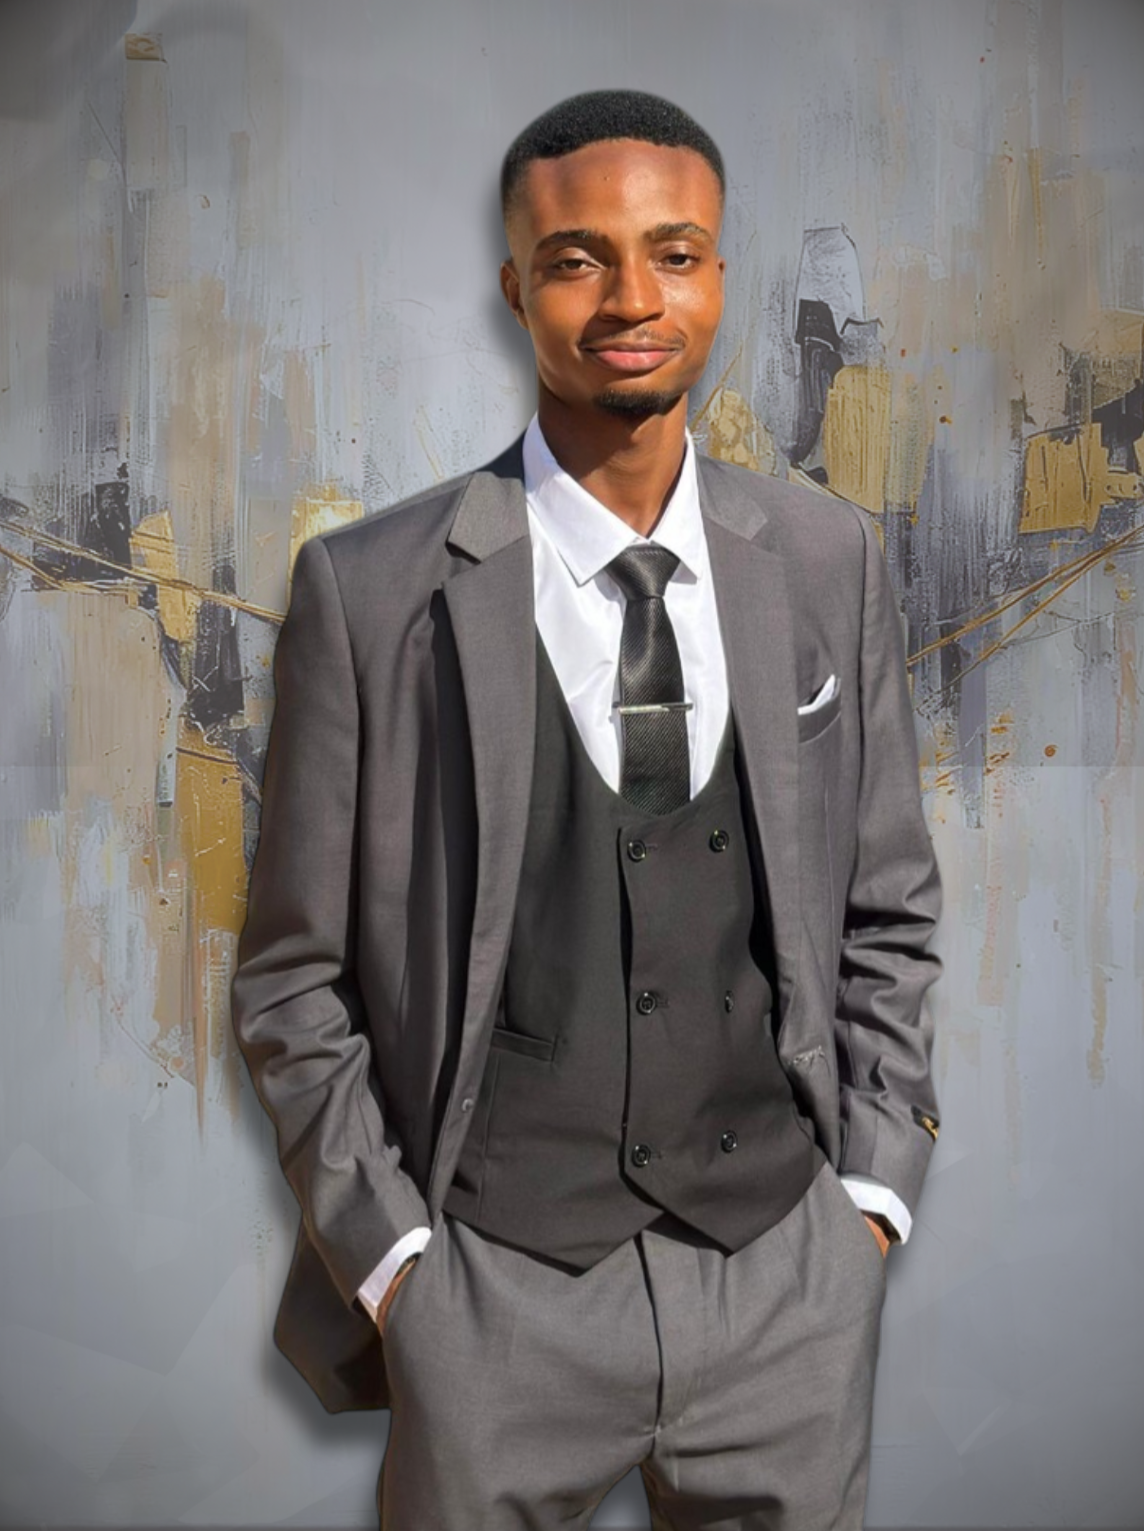
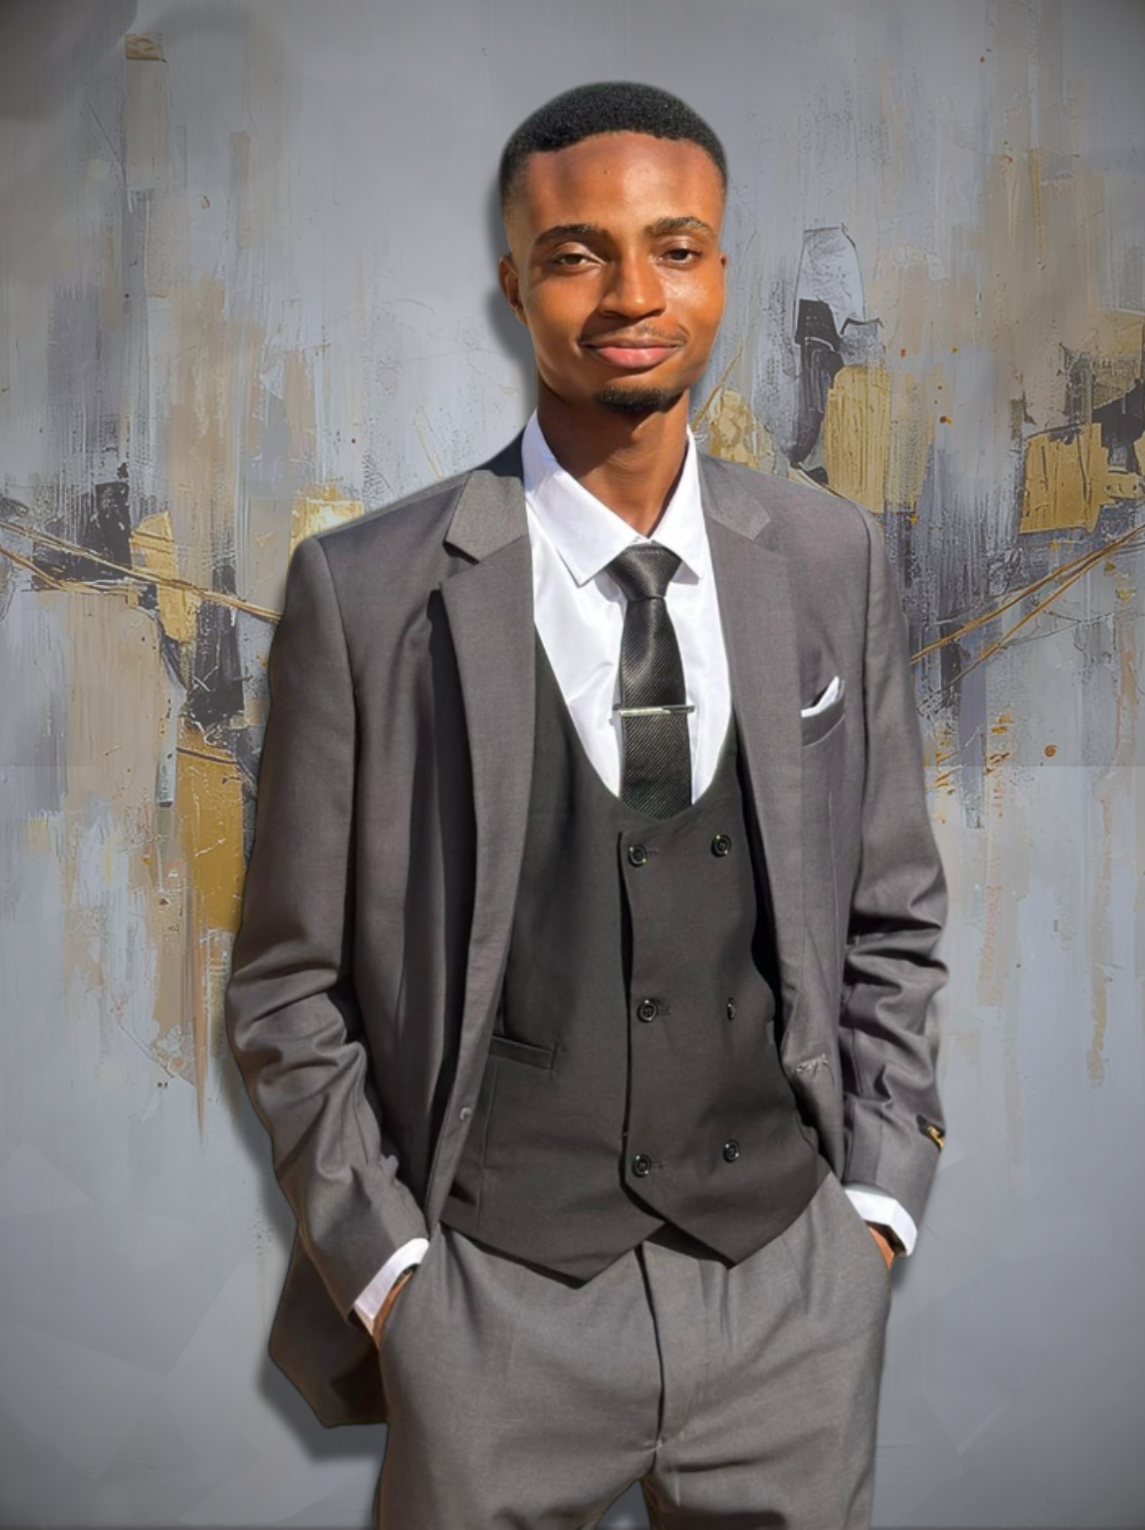
improved responsiveness for home and about sections

diff --git a/src/App.tsx b/src/App.tsx
@@ -1,64 +1,64 @@
 import './styles/App.css';
 // import Navbar from './components/Navbar';
 import introBg from './assets/intro-bg.png';
-import introPic from './assets/intro-pic.png';
+import ProfileCard from './components/ProfileCard';
 
 
 function App() {
 
   return (
     <div
-      className="border-box h-screen bg-fixed bg-cover bg-center bg-no-repeat snap-y snap-mandatory overflow-y-scroll scroll-smooth overflow-auto scrollbar-none p-10"
+      className="border-box h-screen bg-fixed bg-cover bg-center bg-no-repeat snap-y snap-mandatory overflow-y-scroll scroll-smooth overflow-auto scrollbar-none p-8 md:p-[5%] text-white"
       style={{ backgroundImage: `url(${introBg})` }}
     >
 
-      <div id="home" className="my-auto h-screen relative snap-start flex items-center justify-center space-y-4 lg:space-x-10 lg:flex-row flex-col-reverse">
+      <div id="home" className="my-auto h-screen snap-start flex items-center justify-center">
 
           <div id="intro-text" className="text-center lg:w-[60%]">
 
-            <h1 className="text-4xl font-bold text-white md:text-6xl tracking-tight">
+            <h1 className="text-4xl font-bold md:text-6xl tracking-tight">
             Chibuike Ihieri
             </h1>
 
-            <p className="text-xl text-white mt-2 font-semibold">
+            <p className="text-xl mt-2 font-semibold">
               Web Developer
             </p>
 
-            <p className="text-lg text-white mt-4 text-start lg:px-4">
-              A <strong className="font-semibold">software engineer</strong> specialized in web development. I create responsive and user-friendly applications that meet the needs of clients and users alike.
+            <p className="text-lg mt-4 lg:px-4">
+              I create responsive, beautiful, and user-friendly web applications that meet the needs of clients and users alike.
             </p>
 
             <div id="intro-buttons" className="mt-6 justify-content space-y-4 space-x-4 lg:space-y-0">
 
-              <button value="View Projects" className="rounded-lg bg-blue-500 text-white px-4 py-2 hover:bg-blue-600">View Projects</button>
+              <button value="View Projects" className="rounded-lg bg-blue-500 px-4 py-2 hover:bg-blue-600">View Projects</button>
 
-              <button value="Get in Touch" className="rounded-lg bg-green-500 text-white px-4 py-2 hover:bg-green-600">Get in Touch</button>
+              <button value="Get in Touch" className="rounded-lg bg-green-500 px-4 py-2 hover:bg-green-600">Get in Touch</button>
               
-              <button value="Download CV" className="rounded-lg bg-yellow-500 text-white px-4 py-2 hover:bg-yellow-600">Download CV</button>
+              <button value="Download CV" className="rounded-lg bg-yellow-500 px-4 py-2 hover:bg-yellow-600">Download CV</button>
 
             </div>
 
           </div>
-
-          <div id="intro-image" className="lg:h-100 h-40 w-40 rounded-full lg:rounded-none p-1 bg-linear-to-r from-pink-500 via-purple-500 to-indigo-500 lg:max-w-[40%] lg:max-h-[70vh] lg:w-fit">
-            <img src={introPic} alt="My Portrait" className=" h-full w-full object-cover rounded-full lg:rounded-none object-top"/>
-          </div>
         
       </div>
       
-      <div id="about" className="h-screen my-auto flex items-center justify-center snap-start">
-        <div className="text-center">
-          <h2 className="text-3xl text-white font-bold mb-4">About Me</h2>
-          <p className="text-lg text-white">
-            I am a passionate web developer with experience in building responsive and user-friendly applications. I enjoy solving complex problems and continuously learning new technologies to enhance my skills.
+      <div id="about" className="h-screen my-auto flex items-center justify-center snap-start space-y-4 lg:space-x-10 lg:flex-row flex-col">
+
+        <ProfileCard />
+
+        <div id="about-text" className="lg:w-[60%]">
+          <h2 className="text-3xl text-center font-bold mb-4">Who am I ?</h2>
+          <p className="text-lg">
+            I'm Chibuike, also commonly known as Ceekay. A <span className="font-semibold">Software Engineer</span> specialized in <span className="font-semibold">web development</span>. I'm highly enthusiastic about building quality software applications that solve real-world problems as well as provide pleasant user experiences. I enjoy converting beatiful user interfaces into functional web applications and continuously learning new technologies to enhance my skills. <br /> <br />
+            Apart from coding, I also enjoy movies, video games, watching youtube videos, and attending tech events. I believe in continuous self-improvement, and networking which drives me to be a better developer and person every day.
           </p>
         </div>
       </div>
 
       <div id="projects" className="h-screen my-auto flex items-center justify-center snap-start">
         <div className="text-center">
-          <h2 className="text-3xl text-white font-bold mb-4">Projects</h2>
-          <p className="text-lg text-white">
+          <h2 className="text-3xl font-bold mb-4">Portfolio</h2>
+          <p className="text-lg">
             Here are some of the projects I have worked on. Each project showcases my skills in web development and my ability to create efficient solutions.
           </p>
         </div>
@@ -66,8 +66,8 @@ function App() {
 
       <div id="contact" className="h-screen my-auto flex items-center justify-center snap-start">
         <div className="text-center">
-          <h2 className="text-3xl text-white font-bold mb-4">Contact Me</h2>
-          <p className="text-lg text-white">
+          <h2 className="text-3xl font-bold mb-4">Contact Me</h2>
+          <p className="text-lg">
             Feel free to reach out to me for any inquiries or collaborations. I am always open to discussing new projects and opportunities.
           </p>
         </div>

diff --git a/src/components/ProfileCard.tsx b/src/components/ProfileCard.tsx
@@ -1,0 +1,28 @@
+import introPic from '../assets/intro-pic.png';
+
+export default () => {
+  return (
+    // Outer Wrapper: Provides padding so the offset elements don't get cut off
+    <div id="about-image" className="relative h-60 w-60 lg:h-100 lg:w-fit lg:max-w-[40%] lg:max-h-[70vh]">
+      
+      {/* 1. Offset Border Layer (Shifted down and right using top/left offsets) */}
+      <div className="absolute lg:-inset-1 lg:translate-x-5 lg:translate-y-5 border-2 border-indigo-500/30 rounded-3xl pointer-events-none h-full w-full lg:rounded-none" />
+
+      {/* 2. Main Image Container */}
+      <div className="flex relative z-10 w-full h-full items-center justify-center">
+        <img
+          src={introPic}
+          alt="Profile"
+          className="h-[95%] w-[95%] lg:h-full lg:w-full object-cover rounded-3xl lg:rounded-none object-top"
+        />
+      </div>
+
+      {/* 3. Floating Experience Badge (Overlapping bottom-left corner) */}
+      <div className="absolute -left-6 bottom-10 z-20 bg-linear-to-r from-blue-600 to-cyan-400 text-white p-2 rounded-lg shadow-lg">
+        <h3 className="text-md font-bold tracking-wide">1+ Years</h3>
+        <p className="text-xs font-medium text-cyan-100 uppercase tracking-wider">Experience</p>
+      </div>
+
+    </div>
+  );
+}

diff --git a/index.html b/index.html
@@ -2,12 +2,12 @@
 <html lang="en">
   <head>
     <meta charset="UTF-8" />
-    <link rel="icon" type="image/svg+xml" href="/favicon.svg" />
+    <link rel="icon" type="image/svg+xml" href="src/assets/logo.jpg" />
     <meta name="viewport" content="width=device-width, initial-scale=1.0" />
     <title>portfolio-web</title>
   </head>
   <body>
     <div id="root"></div>
-    <script type="module" src="/src/main.tsx"></script>
+    <script type="module" src="src/main.tsx"></script>
   </body>
 </html>